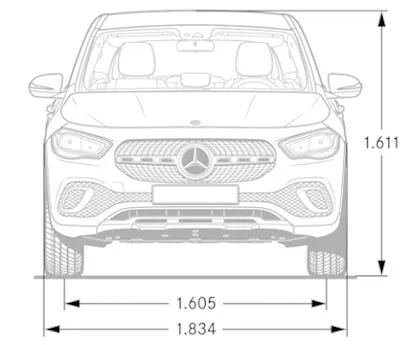
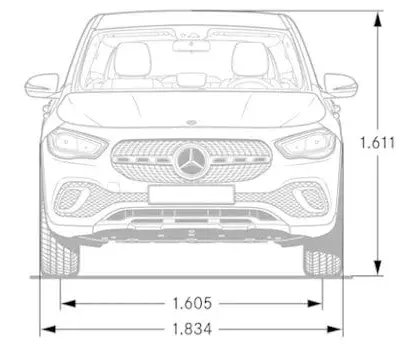
gla

diff --git a/pic/ja_mb_img_gla.html b/pic/ja_mb_img_gla.html
@@ -183,7 +183,7 @@
 						<a href="full/gla/h247_amg_i.jpg"><img loading="lazy" src="style/gla/h247_amg_i.webp" alt="メルセデス,h247,GLA,AMG,内装" width="552" height="368"></a>
 						<h5>Dimensions</h5>
 						<a href="full/gla/h247_a1.jpg"><img loading="lazy" src="style/gla/h247_a1.webp" alt="メルセデス,h247,GLA,側面図" width="799" height="345"></a>
-						<a href="full/gla/h247_a2.jpg"><img loading="lazy" src="style/gla/h247_a2.webp" alt="メルセデス,h247,GLA,正面図" width="412" height="345"></a><br>
+						<a href="full/gla/h247_a2.jpg"><img loading="lazy" src="style/gla/h247_a2.webp" alt="メルセデス,h247,GLA,正面図" width="408" height="345"></a><br>
 						<a href="full/gla/h247_a3.jpg"><img loading="lazy" src="style/gla/h247_a3.webp" alt="メルセデス,h247,GLA,上面図" width="799" height="355"></a>
 					</section>
 				</div>

diff --git a/pic/mb_img_gla.html b/pic/mb_img_gla.html
@@ -183,7 +183,7 @@
 						<a href="full/gla/h247_amg_i.jpg"><img loading="lazy" src="style/gla/h247_amg_i.webp" alt="Mercedes,h247,GLA,AMG,Innere" width="552" height="368"></a>
 						<h5>Abmessungen</h5>
 						<a href="full/gla/h247_a1.jpg"><img loading="lazy" src="style/gla/h247_a1.webp" alt="Mercedes,h247,GLA,Seitenansicht" width="799" height="345"></a>
-						<a href="full/gla/h247_a2.jpg"><img loading="lazy" src="style/gla/h247_a2.webp" alt="Mercedes,h247,GLA,Frontansicht" width="412" height="345"></a><br>
+						<a href="full/gla/h247_a2.jpg"><img loading="lazy" src="style/gla/h247_a2.webp" alt="Mercedes,h247,GLA,Frontansicht" width="408" height="345"></a><br>
 						<a href="full/gla/h247_a3.jpg"><img loading="lazy" src="style/gla/h247_a3.webp" alt="Mercedes,h247,GLA,Draufsicht" width="799" height="355"></a>
 					</section>
 				</div>

diff --git a/pic/en_mb_img_gla.html b/pic/en_mb_img_gla.html
@@ -183,7 +183,7 @@
 						<a href="full/gla/h247_amg_i.jpg"><img loading="lazy" src="style/gla/h247_amg_i.webp" alt="Mercedes,h247,GLA,AMG,interior" width="552" height="368"></a>
 						<h5>Dimensions</h5>
 						<a href="full/gla/h247_a1.jpg"><img loading="lazy" src="style/gla/h247_a1.webp" alt="Mercedes,h247,GLA,Side view" width="799" height="345"></a>
-						<a href="full/gla/h247_a2.jpg"><img loading="lazy" src="style/gla/h247_a2.webp" alt="Mercedes,h247,GLA,Front view" width="412" height="345"></a><br>
+						<a href="full/gla/h247_a2.jpg"><img loading="lazy" src="style/gla/h247_a2.webp" alt="Mercedes,h247,GLA,Front view" width="408" height="345"></a><br>
 						<a href="full/gla/h247_a3.jpg"><img loading="lazy" src="style/gla/h247_a3.webp" alt="Mercedes,h247,GLA,Top view" width="799" height="355"></a>
 					</section>
 				</div>

diff --git a/pic/fr_mb_img_gla.html b/pic/fr_mb_img_gla.html
@@ -183,7 +183,7 @@
 						<a href="full/gla/h247_amg_i.jpg"><img loading="lazy" src="style/gla/h247_amg_i.webp" alt="Mercedes,h247,GLA,AMG,intérieur" width="552" height="368"></a>
 						<h5>Dimensions</h5>
 						<a href="full/gla/h247_a1.jpg"><img loading="lazy" src="style/gla/h247_a1.webp" alt="Mercedes,h247,GLA,côté" width="799" height="345"></a>
-						<a href="full/gla/h247_a2.jpg"><img loading="lazy" src="style/gla/h247_a2.webp" alt="Mercedes,h247,GLA,devant" width="412" height="345"></a><br>
+						<a href="full/gla/h247_a2.jpg"><img loading="lazy" src="style/gla/h247_a2.webp" alt="Mercedes,h247,GLA,devant" width="408" height="345"></a><br>
 						<a href="full/gla/h247_a3.jpg"><img loading="lazy" src="style/gla/h247_a3.webp" alt="Mercedes,h247,GLA,vue de dessus" width="799" height="355"></a>
 					</section>
 				</div>
